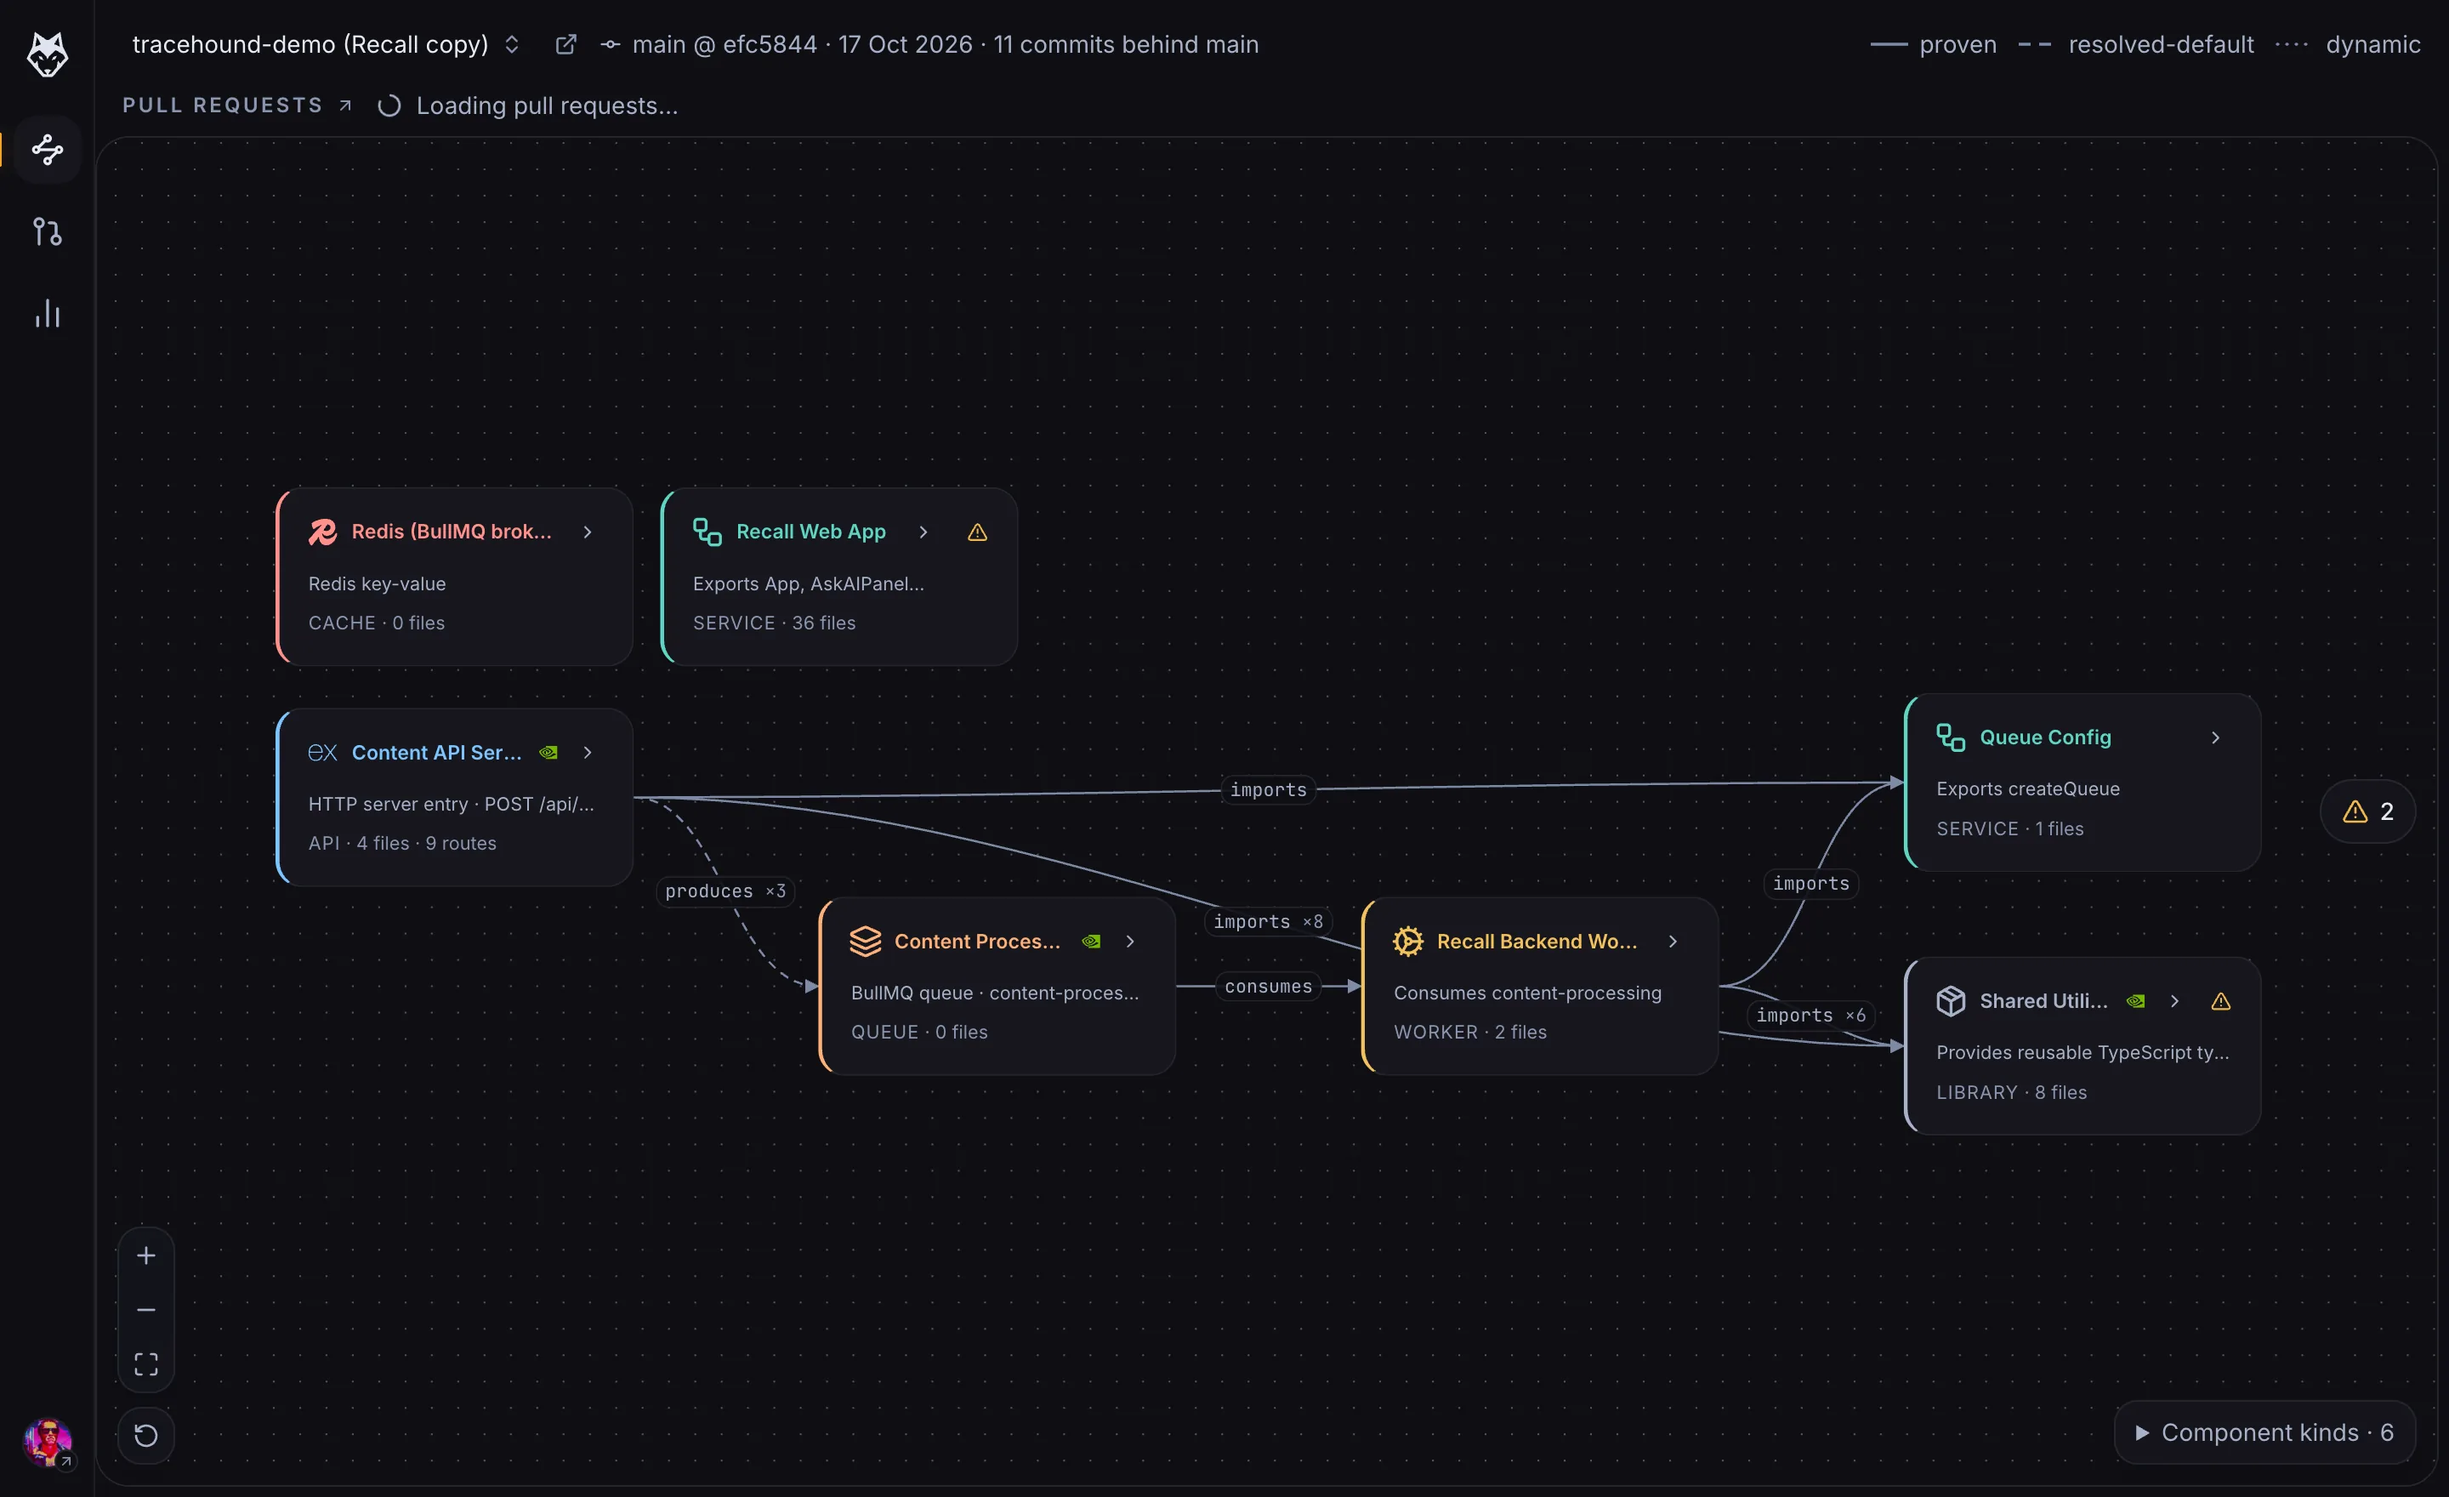
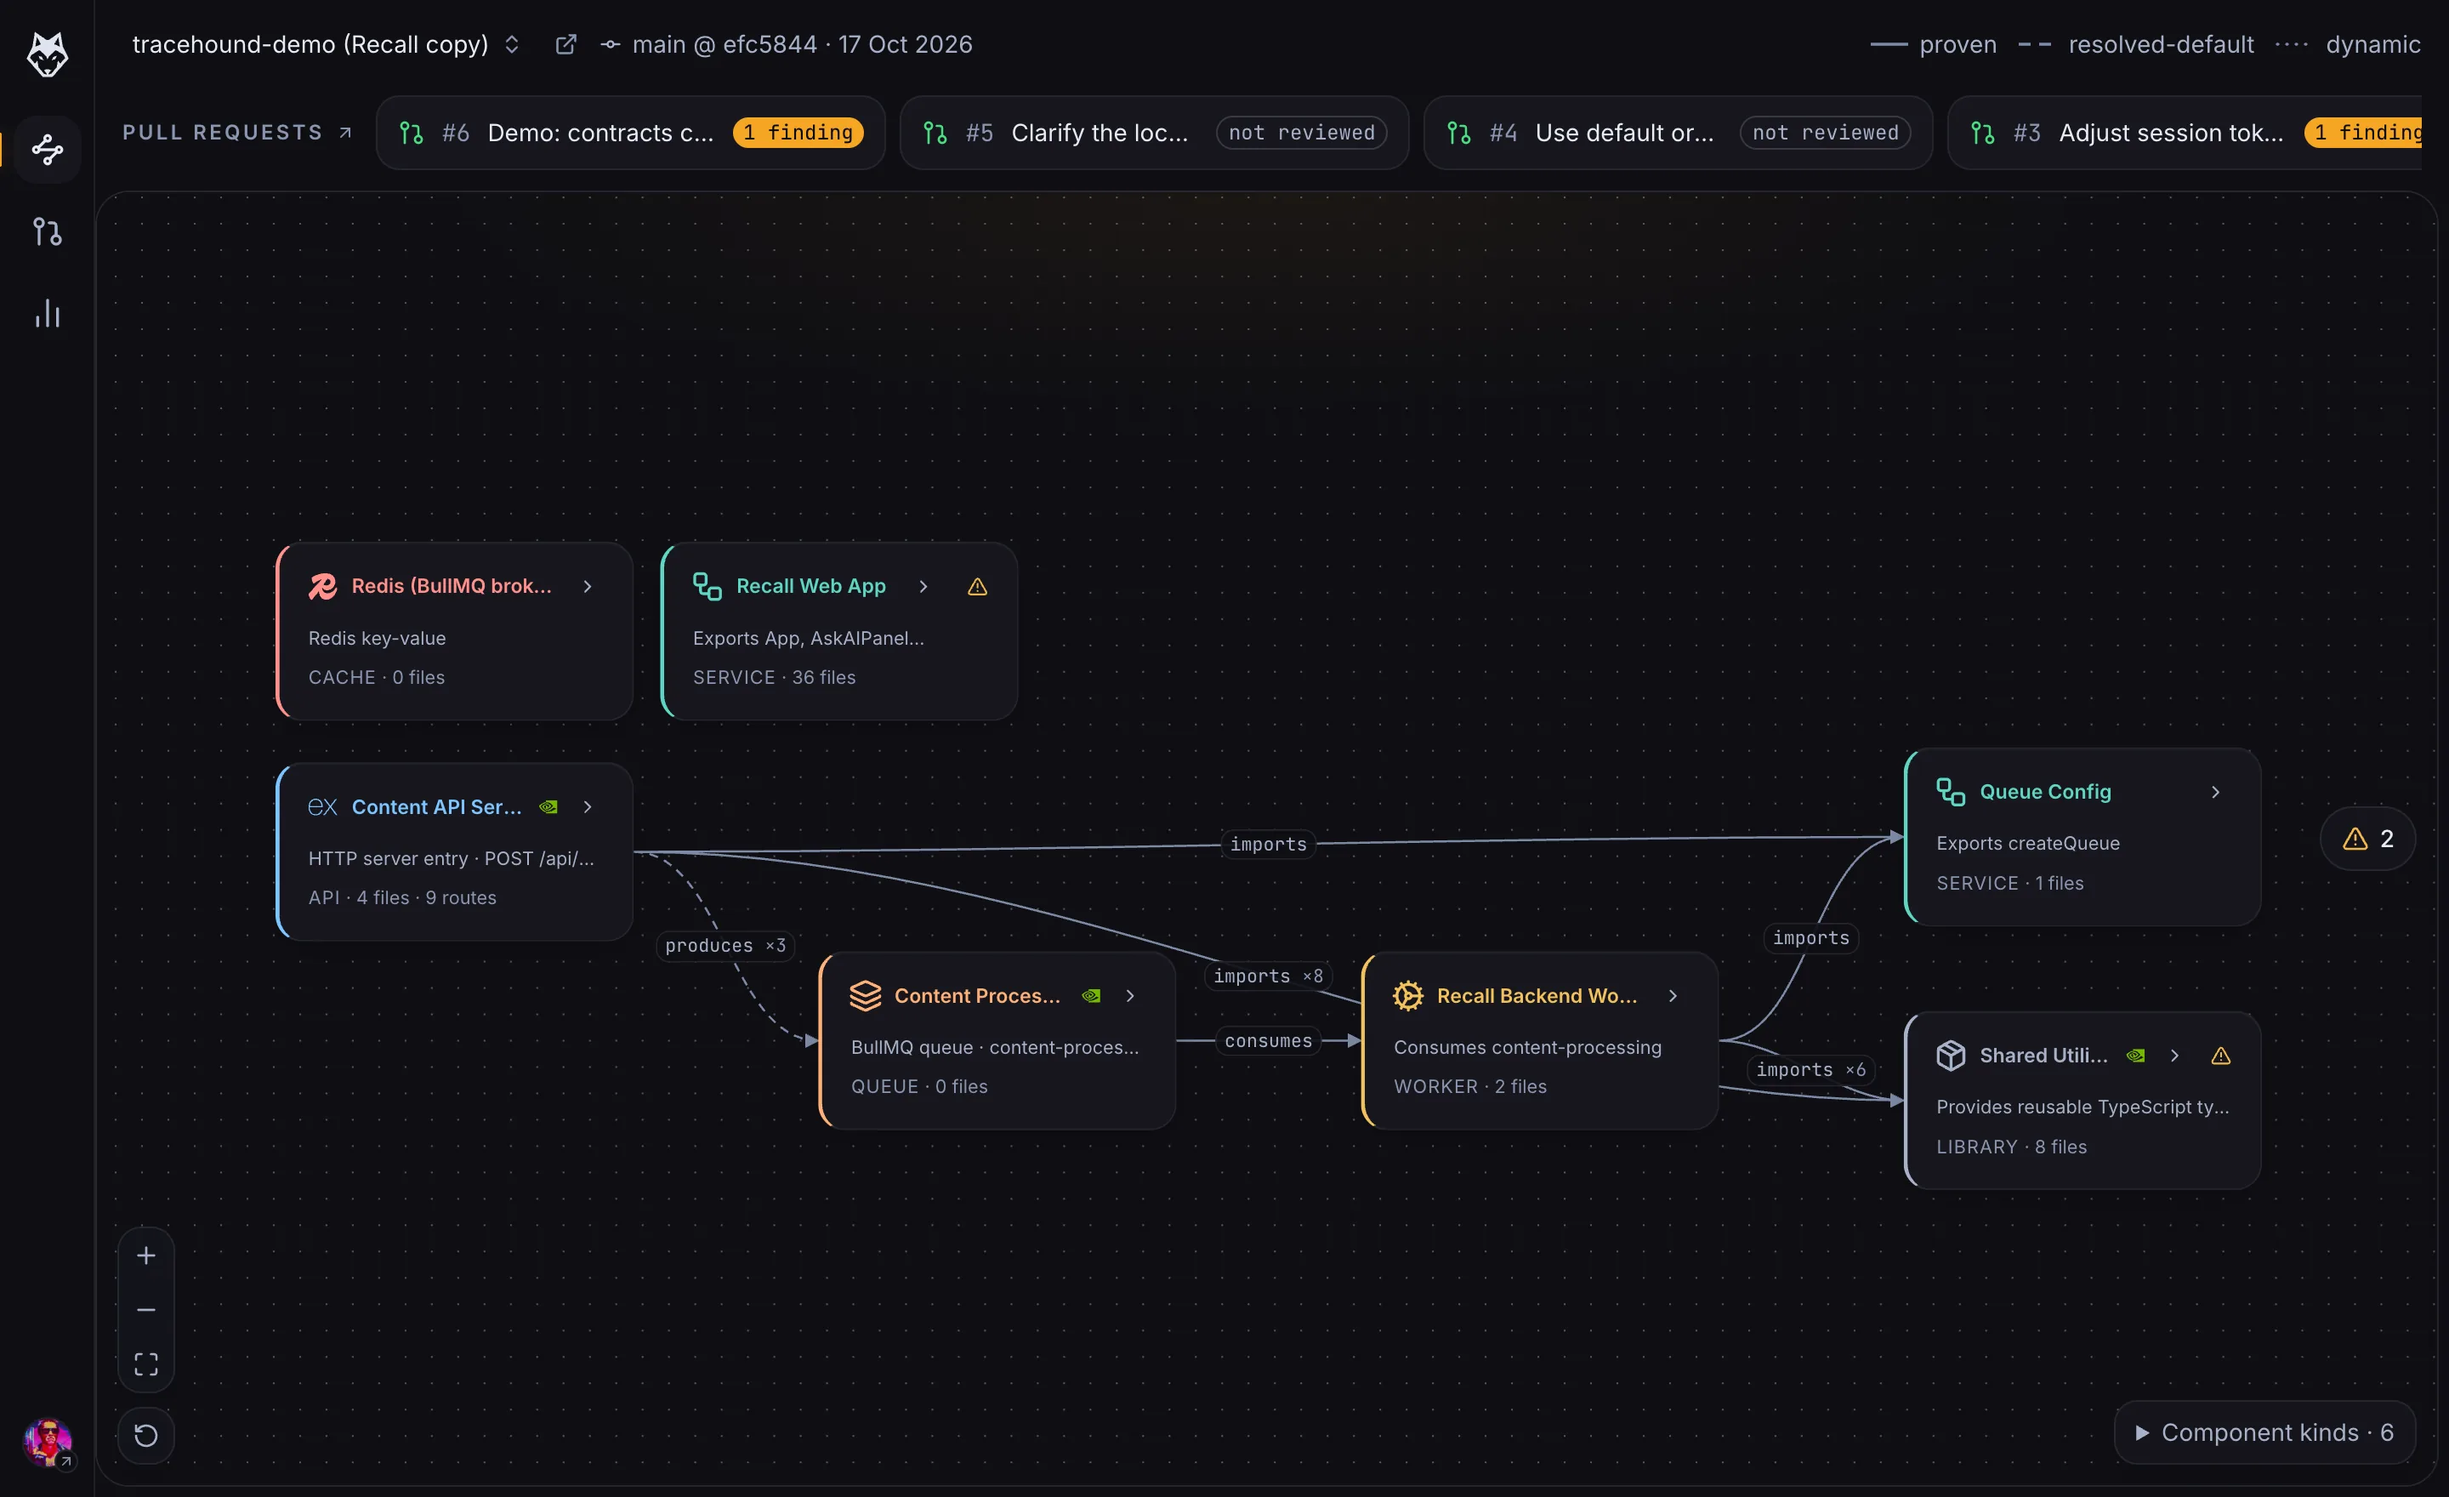
viewer: landing app-window frames from the restyled app; lane scrolls to the chosen PR
The four screenshots behind the landing's app window are recaptured from
this build (graph, PR lane with #2, findings in the inspector, the review).

diff --git a/viewer/components/PrLane.tsx b/viewer/components/PrLane.tsx
@@ -1,7 +1,7 @@
 "use client";
 
 import { ArrowUpRight, CircleDot, GitMerge, GitPullRequest, GitPullRequestClosed, LoaderCircle, X } from "lucide-react";
-import { useCallback, useEffect, useState } from "react";
+import { useCallback, useEffect, useRef, useState } from "react";
 import { prParam, pullsClient, type LaneList, type LanePull, type PullOverlayData, type PrOverlay, type ReviewStatus } from "@/lib/pulls";
 import { pullHref } from "@/lib/reviews";
 
@@ -50,9 +50,13 @@ export const STATUS_LABEL: Record<ReviewStatus, string> = { reviewed: "reviewed"
 
 function PullChip({ pull, active, onSelect }: { pull: LanePull; active: boolean; onSelect: () => void }) {
   const Icon = STATE_ICON[pull.state];
+  const ref = useRef<HTMLButtonElement>(null);
+  // a deep-linked or chosen PR is scrolled into the strip's view
+  useEffect(() => { if (active) ref.current?.scrollIntoView?.({ block: "nearest", inline: "nearest" }); }, [active]);
   return (
     <li className="shrink-0">
       <button
+        ref={ref}
         type="button"
         onClick={onSelect}
         aria-pressed={active}
